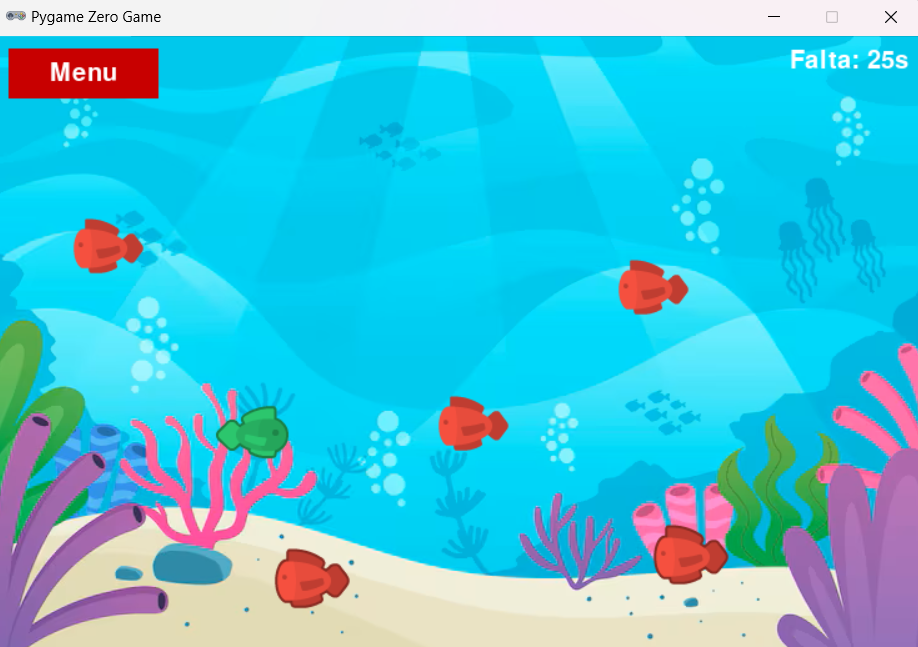
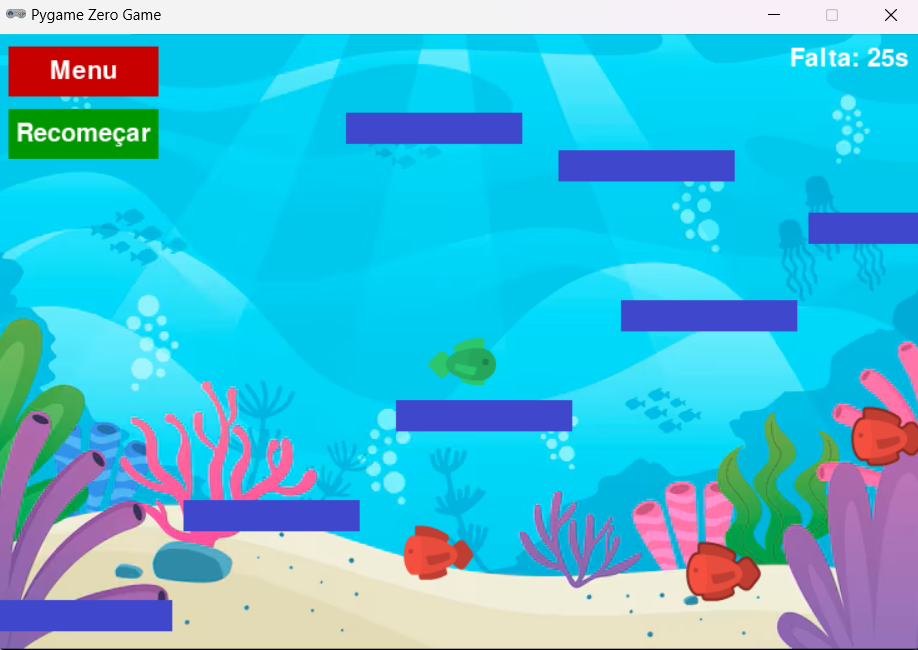
fix: transformando jogo no tipo platformer

diff --git a/main.py b/main.py
@@ -1,3 +1,6 @@
+import os
+os.environ['SDL_VIDEO_CENTERED'] = '1'  # Centraliza a janela
+
 import math
 import pgzrun
 from pygame import Rect
@@ -5,12 +8,17 @@ import random
 import time
 
 # --- Tamanho da tela ---
+#WIDTH = 800
+#HEIGHT = 600
 background = Actor('background')  # background.png
 WIDTH = background.width
 HEIGHT = background.height
 
+# --- Background (ajustado ao tamanho novo) ---
+#background = Actor('background', (WIDTH // 2, HEIGHT // 2))
+
 # --- Variáveis globais ---
-is_music_on = True
+is_music_on = False
 is_sounds_on = False
 background_music = 'bolhas'  # nome da música
 survive_time = 30  # segundos para passar de nível
@@ -22,21 +30,39 @@ def is_collision(a, b, radius_a=20, radius_b=20):
     distance = math.hypot(dx, dy)
     return distance < (radius_a + radius_b)
 
+# --- Classe Plataforma Física ---
+class Platform:
+    def __init__(self, x, y, w=120, h=10):
+        self.rect = Rect((x, y), (w, h))
+        self.image = "platform"
+
+    def draw(self):
+        screen.blit(self.image, self.rect)
+
 # --- Classe Player ---
 class Player:
     def __init__(self, pos):
         self.actor = Actor('player_idle', pos)
         self.vx = 0
         self.vy = 0
-        self.speed = 5
+        self.speed = 3
+        self.gravity = 0.6
+        self.jump_power = -12
+        self.on_ground = False
+
+        # Animações
         self.idle_frames = ['player_idle', 'player_run1']
         self.run_frames = ['player_run1', 'player_run2']
         self.anim_index = 0
         self.anim_timer = 0
         self.run_anim = False
 
-    def update(self):
-        self.vx = self.vy = 0
+    def get_rect(self):
+        # Caixa de colisão do jogador
+        return Rect((self.actor.left, self.actor.top), (self.actor.width, self.actor.height))
+
+    def update(self, platforms):
+        self.vx = 0
         self.run_anim = False
 
         if keyboard.left:
@@ -46,19 +72,41 @@ class Player:
             self.vx = self.speed
             self.run_anim = True
 
-        if keyboard.up:
-            self.vy = -self.speed
-        elif keyboard.down:
-            self.vy = self.speed
+        # Pulo
+        if keyboard.space and self.on_ground:
+            self.vy = self.jump_power
+            self.on_ground = False
 
+        # Aplicar gravidade
+        self.vy += self.gravity
+
+        # Atualizar posição horizontal
         self.actor.x += self.vx
+
+        # Atualizar posição vertical
         self.actor.y += self.vy
 
+        self.on_ground = False
+        player_rect = self.get_rect()
+
+        # Verifica colisão com plataformas
+        for platform in platforms:
+            if player_rect.colliderect(platform.rect):
+                if self.vy > 0 and player_rect.bottom - self.vy <= platform.rect.top:
+                    # Aterrissou na plataforma
+                    self.actor.bottom = platform.rect.top
+                    self.vy = 0
+                    self.on_ground = True
+
         # Limites da tela
-        self.actor.left = max(self.actor.left, 0)
-        self.actor.right = min(self.actor.right, WIDTH)
-        self.actor.top = max(self.actor.top, 0)
-        self.actor.bottom = min(self.actor.bottom, HEIGHT)
+        if self.actor.left < 0:
+            self.actor.left = 0
+        if self.actor.right > WIDTH:
+            self.actor.right = WIDTH
+        if self.actor.bottom > HEIGHT:
+            self.actor.bottom = HEIGHT
+            self.vy = 0
+            self.on_ground = True
 
         # Animação
         self.anim_timer += 1
@@ -113,12 +161,23 @@ class Button:
 # --- Classe Game ---
 class Game:
     def __init__(self):
-        self.player = Player((WIDTH // 2, HEIGHT // 2))
+        self.player = Player((100, HEIGHT - 150))
         self.enemies = []
         self.game_started = False
         self.game_over = False
         self.level_complete = False
         self.start_time = 0
+
+        # Plataformas
+        self.platforms = [
+            Platform(0, HEIGHT - 40, WIDTH, 40),  # chão
+            Platform(150, HEIGHT - 120),
+            Platform(320, HEIGHT - 200),
+            Platform(500, HEIGHT - 280),
+            Platform(650, HEIGHT - 350),
+            Platform(450, HEIGHT - 400),
+            Platform(280, HEIGHT - 430),
+        ]
 
         # Botões
         self.start_button = Button(Rect(WIDTH // 2 - 100, HEIGHT // 2 - 75, 200, 50), (0, 255, 0), "Começar")
@@ -126,18 +185,20 @@ class Game:
         self.sound_button = Button(Rect(WIDTH // 2 - 100, HEIGHT // 2 + 75, 200, 50), (255, 255, 0), "Sons: OFF")
         self.exit_button = Button(Rect(WIDTH // 2 - 100, HEIGHT // 2 + 150, 200, 50), (255, 0, 0), "Sair")
         self.back_button = Button(Rect(10, 10, 120, 40), (200, 0, 0), "Menu")
+        self.restart_button = Button(Rect(10, 60, 120, 40), (0, 150, 0), "Recomeçar")
 
     def spawn_enemy(self):
         y = random.randint(50, HEIGHT - 50)
         self.enemies.append(Enemy((WIDTH + 50, y)))
 
+
     def update(self):
         global is_sounds_on
         if self.game_started and not self.game_over and not self.level_complete:
-            self.player.update()
+            self.player.update(self.platforms)
 
             # Criar inimigos
-            if random.randint(1, 50) == 1:
+            if random.randint(1, 100) == 1:
                 self.spawn_enemy()
 
             # Atualizar inimigos
@@ -165,11 +226,15 @@ class Game:
         if self.game_started:
             background.draw()
             self.player.draw()
+            for plat in self.platforms:
+                plat.draw()
             for enemy in self.enemies:
                 enemy.draw()
 
             # Menu no canto
             self.back_button.draw()
+            self.restart_button.draw()
+
 
             # Cronômetro
             if not self.game_over and not self.level_complete:
@@ -181,6 +246,7 @@ class Game:
                 screen.draw.text("GAME OVER", center=(WIDTH//2, HEIGHT//2), fontsize=60, color="red")
             elif self.level_complete:
                 screen.draw.text("NÍVEL COMPLETO!", center=(WIDTH//2, HEIGHT//2), fontsize=50, color="green")
+
 
         else:
             screen.fill((0, 0, 0))
@@ -215,6 +281,13 @@ def on_mouse_down(pos, button):
             game.level_complete = False
             game.enemies.clear()
             play_click()
+
+        elif game.restart_button.is_clicked(pos):
+            game.__init__()  # Reinicia o jogo completamente
+            game.game_started = True
+            game.start_time = time.time()
+            play_click()
+
     else:
         if game.start_button.is_clicked(pos):
             game.game_started = True
@@ -239,6 +312,7 @@ def on_mouse_down(pos, button):
             play_click()
             exit()
 
+# --- Loop principal ---
 def update():
     game.update()
 

diff --git a/README.md b/README.md
@@ -3,7 +3,7 @@
 ![Tela Inicial](images/menu.png)  
 *Imagem do menu do jogo*
 
-Fuga das Profundezas é um jogo 2D desenvolvido em Python utilizando a biblioteca **Pygame Zero**. O jogador controla um personagem que precisa sobreviver aos inimigos que aparecem na tela, completando níveis baseados em tempo de sobrevivência.
+Fuga das Profundezas é um jogo 2D desenvolvido em Python utilizando a biblioteca **Pygame Zero**. O jogador controla um personagem que navega entre as plataformas e precisa sobreviver aos inimigos que aparecem na tela, completando níveis baseados em tempo de sobrevivência.
 
 ---
 
@@ -20,13 +20,15 @@ Fuga das Profundezas é um jogo 2D desenvolvido em Python utilizando a bibliotec
 
 ## ⌨ Controles
 
-- **Setas →, ←, ↑, ↓**: mover o jogador  
+- **Backspace**: pular  
+- **Setas →, ←**: mover o jogador  
 - **Mouse**: clicar nos botões do menu e durante o jogo  
   - **Começar**: inicia o jogo  
   - **Música ON/OFF**: ativa/desativa a música de fundo  
   - **Sons ON/OFF**: ativa/desativa efeitos sonoros  
   - **Sair**: fecha o jogo  
   - **Menu**: volta para o menu principal durante o jogo  
+  - **Recomeçar**: reinicia o nível 
 
 ---
 
@@ -36,3 +38,8 @@ Fuga das Profundezas é um jogo 2D desenvolvido em Python utilizando a bibliotec
 2. Instale o **Pygame Zero**:
    ```bash
    pip install pgzero
+3. Rode com:
+    ```bash
+    pgzrun main.py
+    ou
+    python main.py
